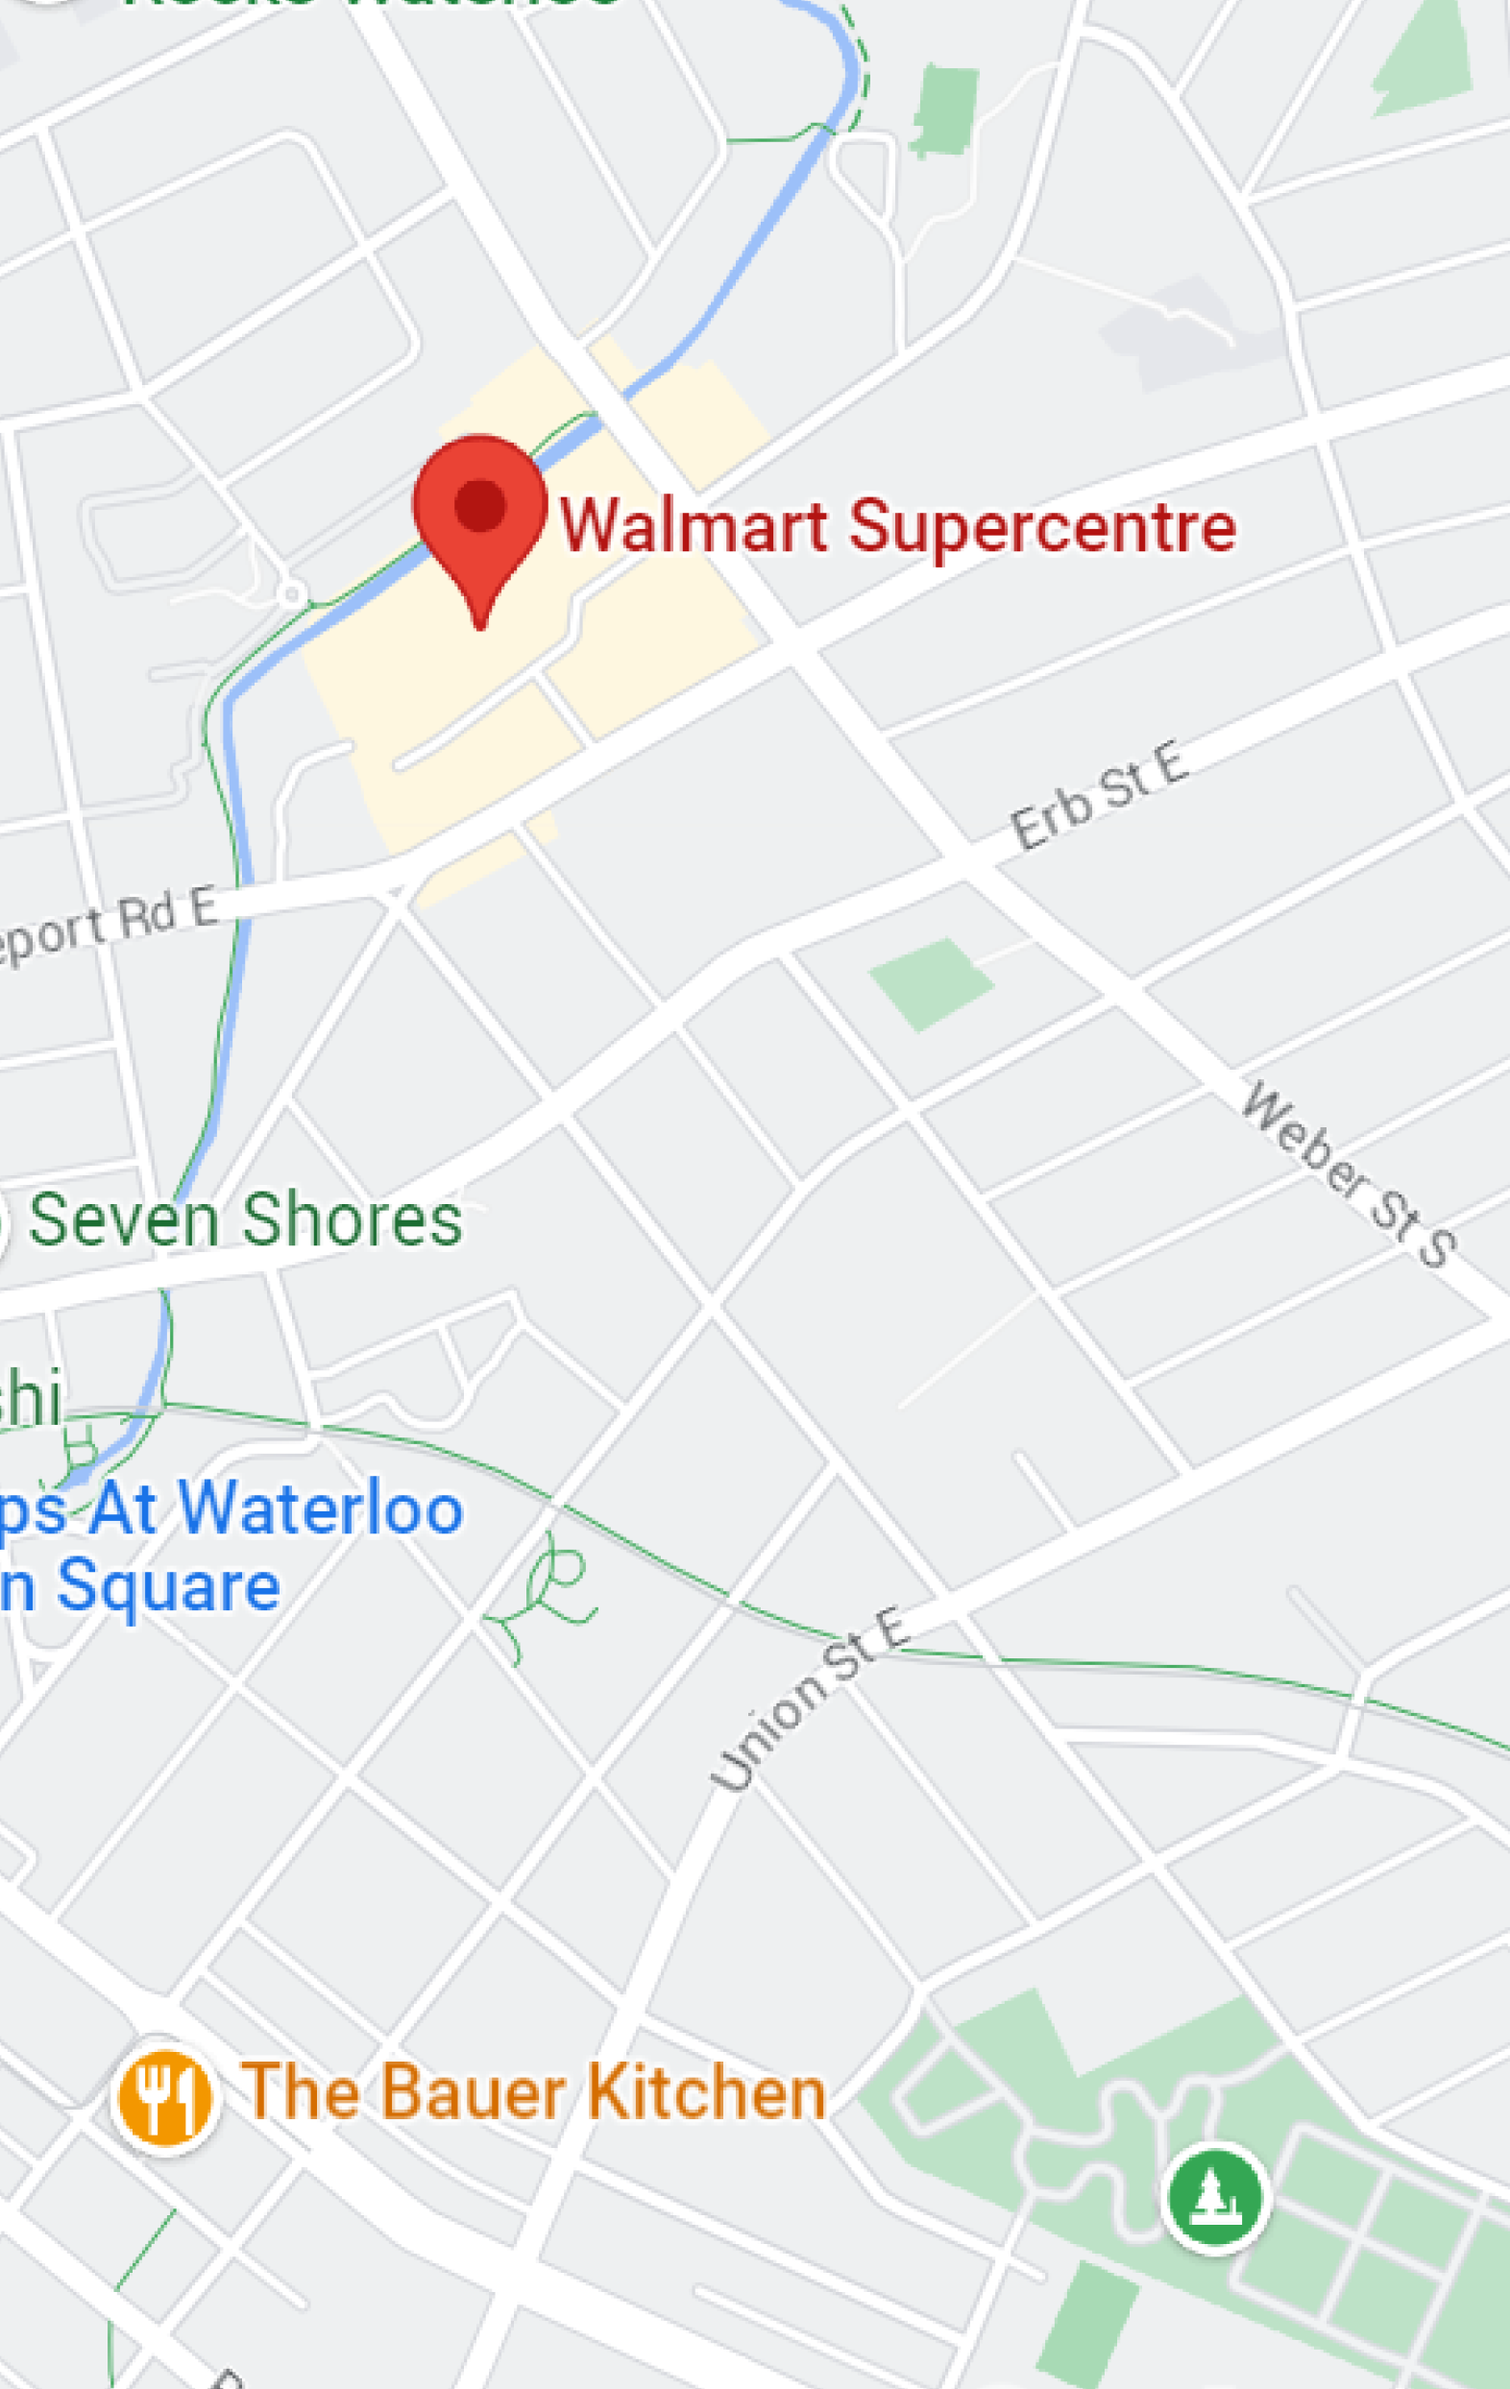
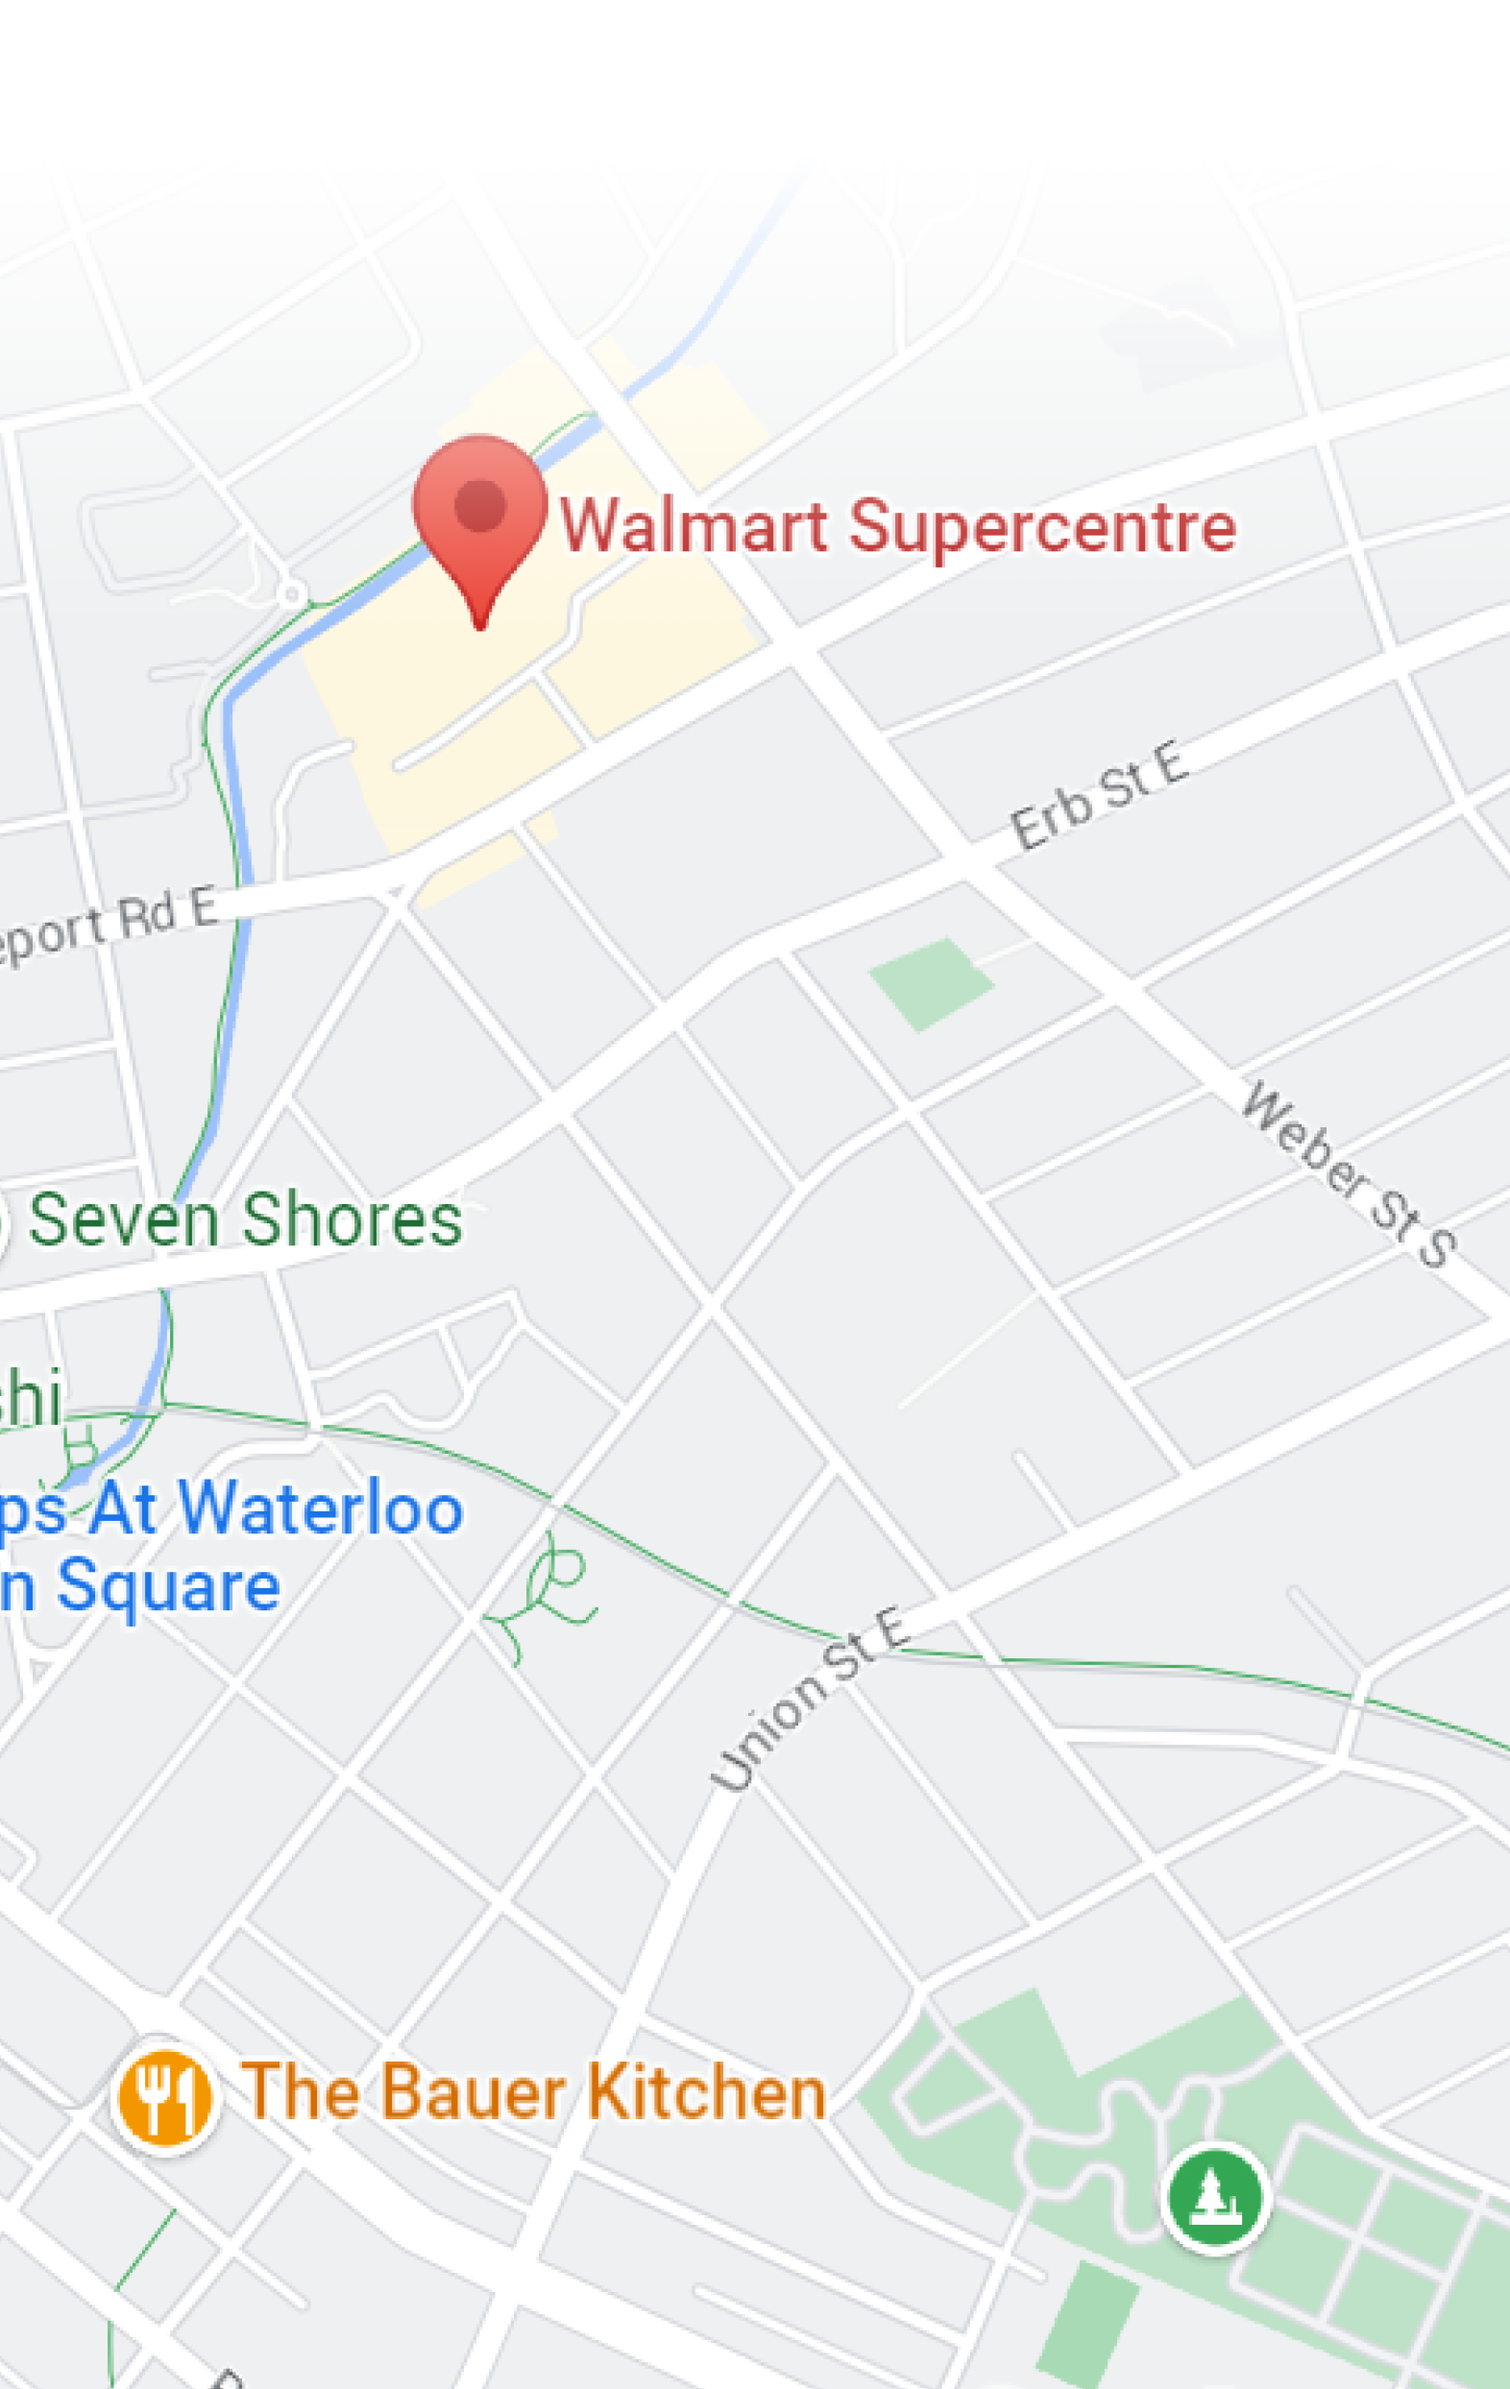
success screen

diff --git a/screens/list/GroceryStoreConfirmationScreen.js b/screens/list/GroceryStoreConfirmationScreen.js
@@ -1,10 +1,9 @@
-import React, { useState } from "react";
+import React from "react";
 import { StyleSheet, View, Image, ScrollView } from 'react-native';
 import {BackButton, PrimaryButtonXS} from "../../components/Buttons";
 import { BoldText, RegularText } from "../../components/CustomText";
 import { ScrollBlur } from "../../components/ScrollBlur";
-import {LinearGradient} from "expo-linear-gradient";
-import MaskedView from "@react-native-masked-view/masked-view";
+import { LIST_STACK } from "../../utils/constants";
 
 export const GroceryStoreConfirmationScreen = ({ navigation, route }) => {
     const store = route?.params?.store;
@@ -31,7 +30,7 @@ export const GroceryStoreConfirmationScreen = ({ navigation, route }) => {
                     </ScrollView>
                 </ScrollBlur>
                 <BoldText style={{ fontSize: 20, paddingBottom: 15, paddingTop: 8 }}>Total:  ${store.total}</BoldText>
-                <PrimaryButtonXS label="select this store" onPress={() => console.log("hi")} />
+                <PrimaryButtonXS label="select this store" onPress={() => navigation.navigate(LIST_STACK.listSuccess)} />
             </View>
         </View>
     )
@@ -47,8 +46,10 @@ const styles = StyleSheet.create({
         alignItems: 'center',
     },
     map: {
-        width: '100%',
-        height: '100%',
+        width: 390,
+        height: 600,
+        position: 'absolute',
+        bottom: 0
     },
     summaryContainer: {
         height: 340,

diff --git a/screens/list/GroceryStoreSuccessScreen.js b/screens/list/GroceryStoreSuccessScreen.js
@@ -1,0 +1,36 @@
+import React from "react";
+import { StyleSheet, View, Image } from 'react-native';
+import { BackButton, PrimaryButton } from "../../components/Buttons";
+import { BoldText, RegularText } from "../../components/CustomText";
+import { SEARCH_STACK } from "../../utils/constants";
+
+export const GroceryStoreSuccessScreen = ({ navigation }) => {
+    return (
+        <View style={styles.container}>
+            <BackButton onPress={() => navigation.pop()} />
+            <BoldText style={{ fontSize: 40, alignSelf: 'flex-start', paddingLeft: 40 }}>Congrats!</BoldText>
+            <View style={{ display: 'flex', alignItems: 'center' }}>
+                <Image source={require("../../assets/graphics/partyHat.png")} style={styles.hat} />
+                <RegularText style={{ fontSize: 20 }}>You saved $7.65 with Flourish!</RegularText>
+            </View>
+            <PrimaryButton label="add more items" onPress={() => navigation.navigate(SEARCH_STACK.search)} />
+        </View>
+    )
+}
+
+const styles = StyleSheet.create({
+    container: {
+        flex: 1,
+        backgroundColor: '#F6FFF1',
+        paddingTop: 90,
+        paddingBottom: 20,
+        position: 'relative',
+        alignItems: 'center',
+        justifyContent: "space-between"
+    },
+    hat: {
+        height: 160,
+        width: 180,
+        marginBottom: 45
+    }
+});

diff --git a/navigation/ListNavigator.js b/navigation/ListNavigator.js
@@ -4,6 +4,7 @@ import { LIST_STACK } from "../utils/constants";
 import { GroceryListScreen } from "../screens/list/GroceryListScreen";
 import { GroceryStoreSelectionScreen } from "../screens/list/GroceryStoreSelectionScreen";
 import { GroceryStoreConfirmationScreen } from "../screens/list/GroceryStoreConfirmationScreen";
+import { GroceryStoreSuccessScreen } from "../screens/list/GroceryStoreSuccessScreen";
 
 const Stack = createStackNavigator();
 
@@ -13,6 +14,7 @@ export const ListNavigator = () => {
             <Stack.Screen name={LIST_STACK.list} component={GroceryListScreen} />
             <Stack.Screen name={LIST_STACK.storeSelection} component={GroceryStoreSelectionScreen} />
             <Stack.Screen name={LIST_STACK.storeConfirmation} component={GroceryStoreConfirmationScreen} />
+            <Stack.Screen name={LIST_STACK.listSuccess} component={GroceryStoreSuccessScreen} />
         </Stack.Navigator>
     );
 };
